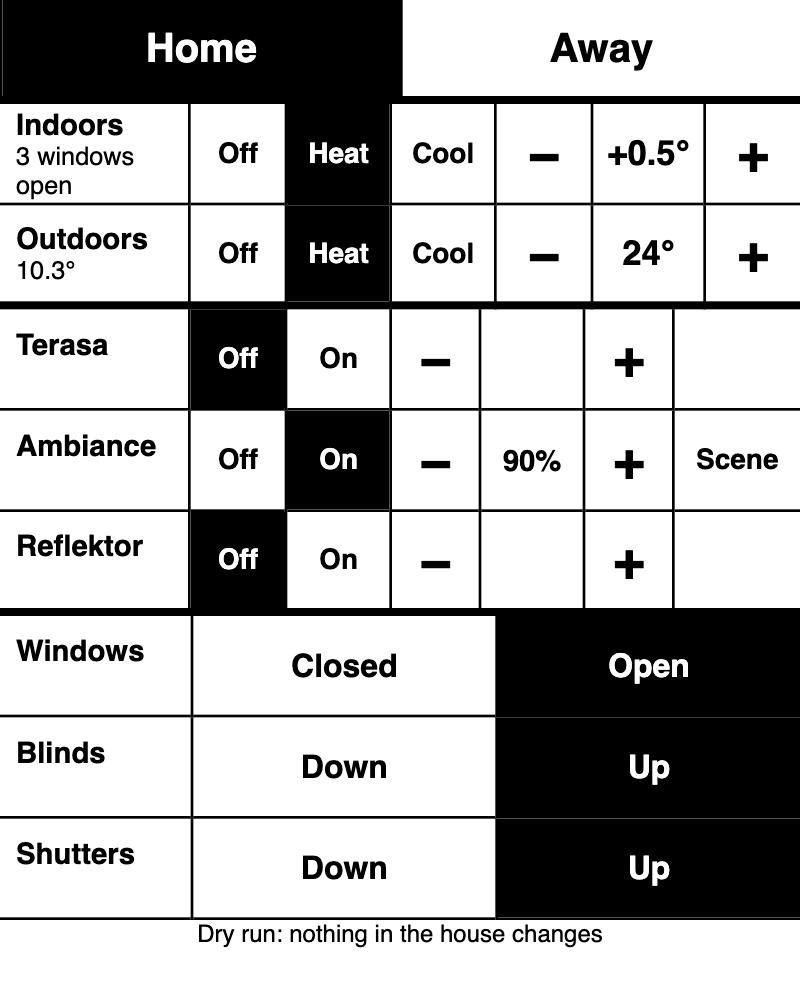
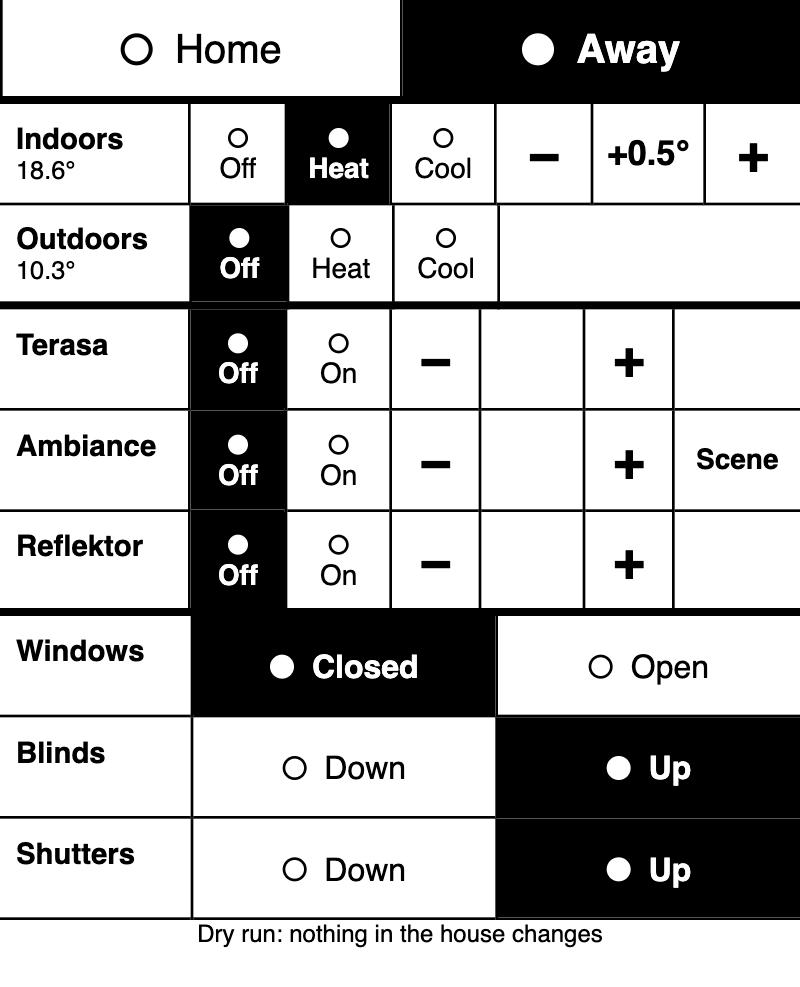
Panel: mark the current option with a dot and bold, not by colour alone

diff --git a/house_knob/ha_knob/panel/index.html b/house_knob/ha_knob/panel/index.html
@@ -78,16 +78,26 @@ function nameCell(w, c, sub) {
          '<div style="font-size:' + Math.round(22 * U) + 'px">' + esc(c.name) + '</div>' +
          '<div class="small" style="font-size:' + Math.round(19 * U) + 'px">' + (esc(sub) || '&nbsp;') + '</div></td>';
 }
-function seg(w, label, active, onclick, size) {
-  return cell(w, 'b' + (active ? ' on' : ''), label, onclick, size);
+// One option of a selector. The current one is told apart three ways, because black
+// against white alone does not say which of two is "the one": a solid dot (the others
+// have a hollow ring), bold text, and the black fill.
+function seg(w, label, active, onclick, size, inline) {
+  var d = Math.round((inline ? 0.6 : 0.5) * (size || 24) * U), b = Math.max(2, Math.round(d / 6));
+  var dot = '<span style="display:inline-block;vertical-align:middle;width:' + d + 'px;height:' + d +
+            'px;border-radius:' + d + 'px;border:' + b + 'px solid ' + (active ? '#fff' : '#000') +
+            ';background:' + (active ? '#fff' : 'transparent') + '"></span>';
+  var text = '<span style="vertical-align:middle;font-weight:' + (active ? 'bold' : 'normal') + '">' + label + '</span>';
+  return cell(w, 'b' + (active ? ' on' : ''),
+              inline ? dot + '&nbsp;&nbsp;' + text : '<div style="line-height:1">' + dot + '</div><div>' + text + '</div>',
+              onclick, size);
 }
 function signed(v) { return (v > 0 ? '+' : '') + (Math.round(v * 10) / 10); }
 
 function rowHtml(i) {
   var c = view(controls[i]), h = '', sub;
   if (c.kind == 'house') {
-    h += seg(50, 'Home', c.mode == 'home', "mode(" + i + ",'home')", 30);
-    h += seg(50, 'Away', c.mode == 'away', "mode(" + i + ",'away')", 30);
+    h += seg(50, 'Home', c.mode == 'home', "mode(" + i + ",'home')", 30, 1);
+    h += seg(50, 'Away', c.mode == 'away', "mode(" + i + ",'away')", 30, 1);
   } else if (c.kind == 'climate') {
     var rel = c.min < 0;                     // relative group: value is a nudge
     var off = c.mode == 'off';
@@ -116,8 +126,8 @@ function rowHtml(i) {
     var lab = c.labels || ['Closed', 'Open'];
     var moving = c.primary == 'Moving', mixed = c.primary == 'Mixed';
     h += nameCell(24, c, moving ? 'Moving' : (c.secondary || ''));
-    h += seg(38, esc(lab[0]), !c.on && !mixed, 'cover(' + i + ',0)', 24);
-    h += seg(38, esc(lab[1]), c.on && !mixed, 'cover(' + i + ',100)', 24);
+    h += seg(38, esc(lab[0]), !c.on && !mixed, 'cover(' + i + ',0)', 24, 1);
+    h += seg(38, esc(lab[1]), c.on && !mixed, 'cover(' + i + ',100)', 24, 1);
   }
   return h;
 }
@@ -200,8 +210,10 @@ function drawScenes() {
 }
 function sceneCell(c, m, k, size) {
   if (k >= m.length) return '<td class="b">&nbsp;</td>';
-  return '<td class="' + (k % 2 ? 'b' : '') + (c.on && c.mode == m[k] ? ' on' : '') +
-         '" onclick="scene(' + k + ')" style="font-size:' + size + 'px">' + esc(m[k]) + '</td>';
+  var active = c.on && c.mode == m[k];
+  return '<td class="' + (k % 2 ? 'b' : '') + (active ? ' on' : '') +
+         '" onclick="scene(' + k + ')" style="font-size:' + size + 'px;font-weight:' + (active ? 'bold' : 'normal') + '">' +
+         esc(m[k]) + '</td>';
 }
 function scene(k) {
   var c = byId(sceneFor);
